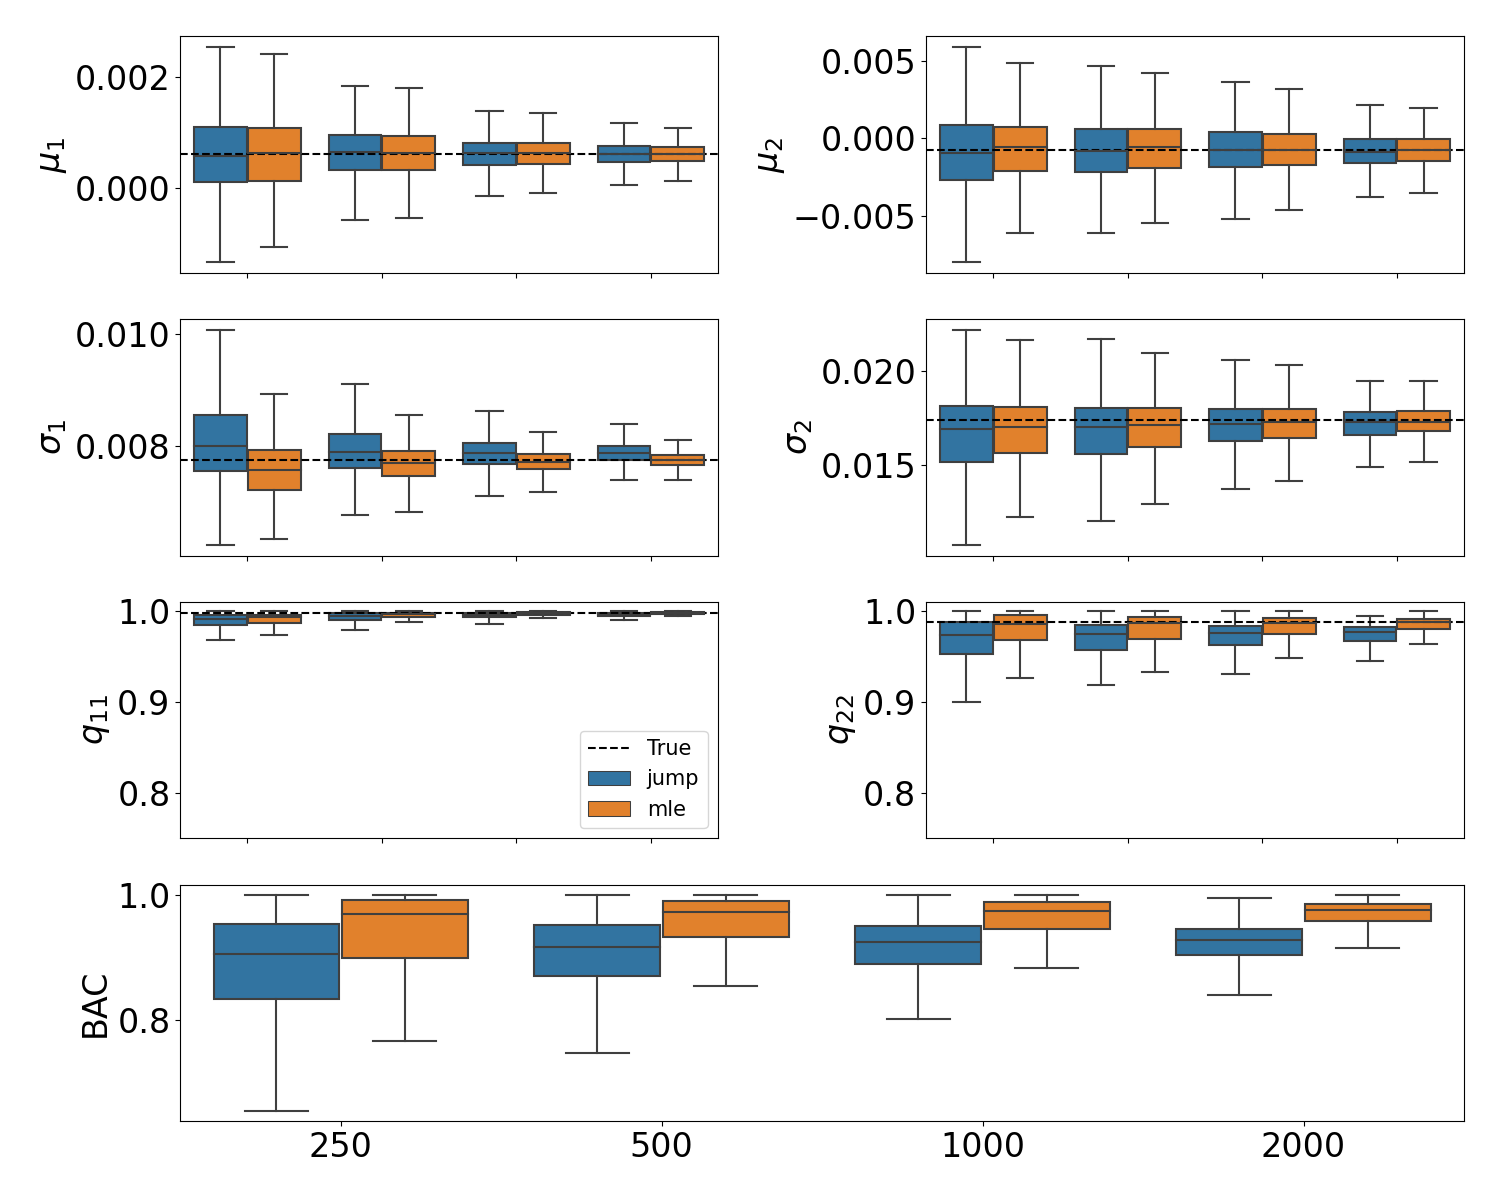
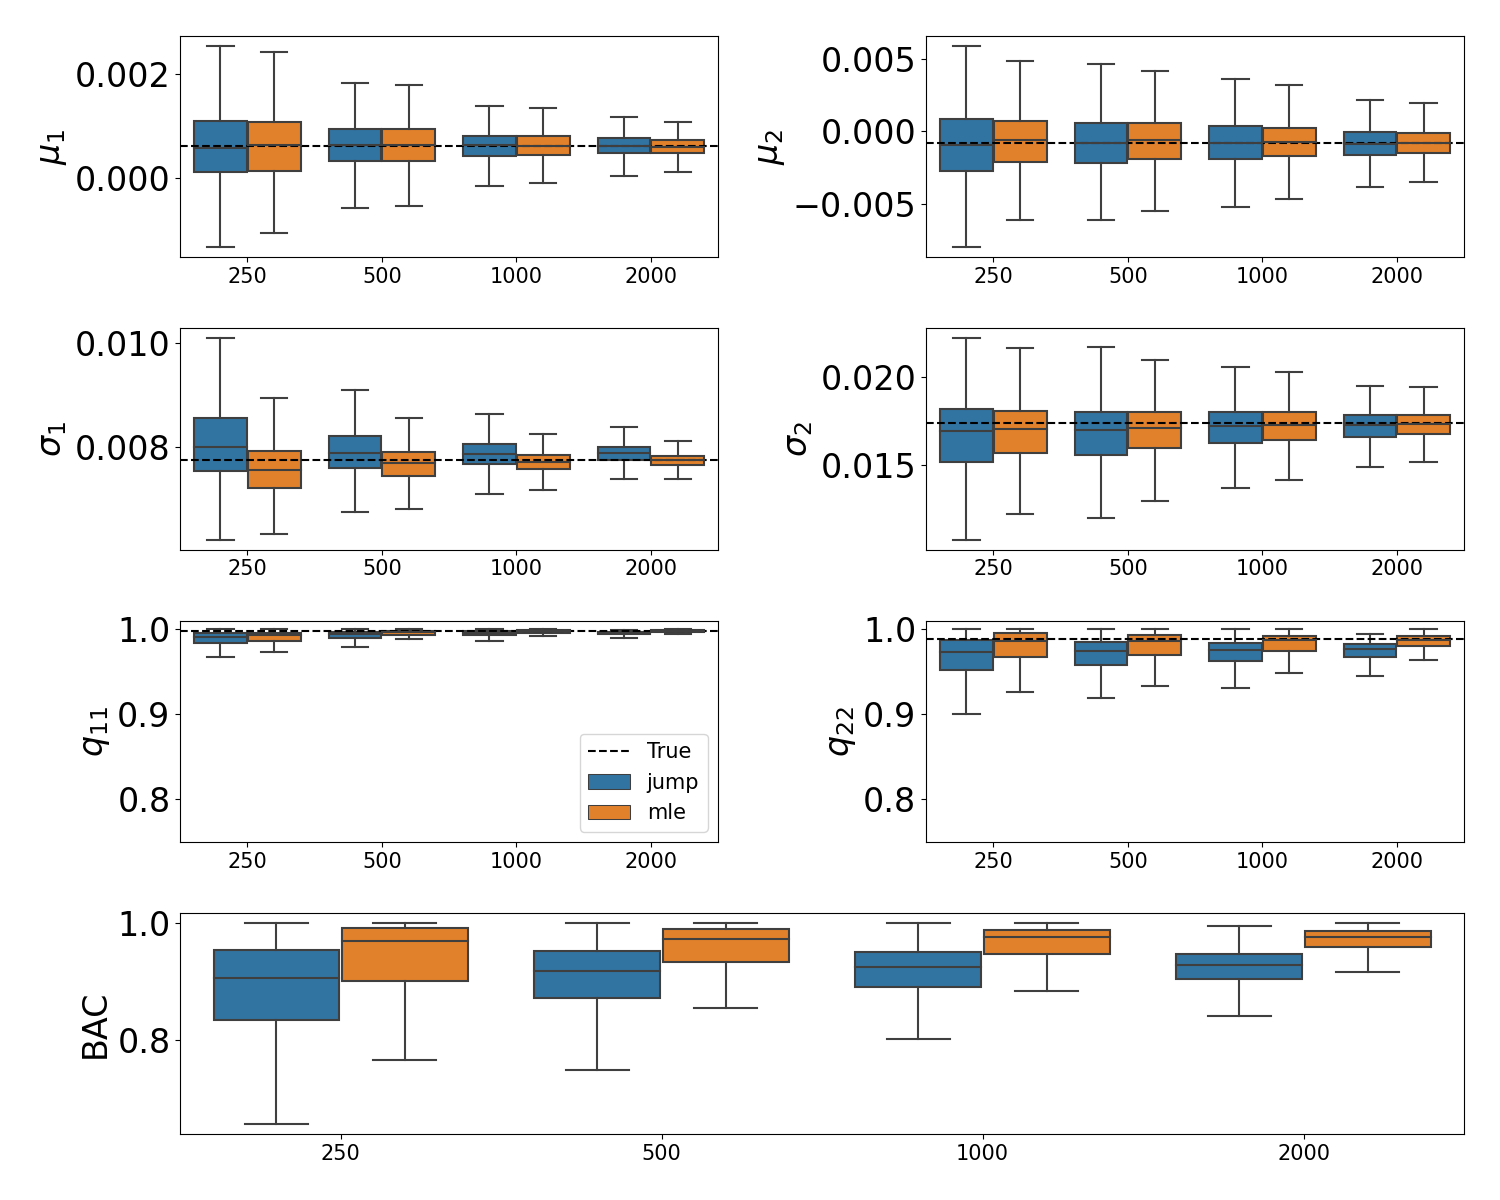
updated simulation plots again

diff --git a/analysis/model_convergence/simulation.py b/analysis/model_convergence/simulation.py
@@ -147,7 +147,7 @@ def plot_simulated_model_convergence(df, sampler, savefig=None):
 def plot_simulated_model_convergence_box(df, sampler, savefig=None):
     # Plotting
     plt.rcParams.update({'font.size': 24})
-    fig, axes = plt.subplots(4, 2, figsize=(15, 12), sharex=True)
+    fig, axes = plt.subplots(4, 2, figsize=(15, 12))
 
     ax4 = plt.subplot2grid((4, 2), (3, 0), rowspan=1, colspan=2)
 
@@ -178,13 +178,14 @@ def plot_simulated_model_convergence_box(df, sampler, savefig=None):
         axes[2, i].axhline(y=sampler.tpm[i, i], ls="--", color="black", label='True')
 
     # Remove seaborn legends and x-labels
-    for ax in axes.flatten():
+    for i, ax in enumerate(axes.flatten()):
         ax.legend([], [], frameon=False)
         ax.set_xlabel("")
+        ax.tick_params(axis='x', labelsize=15)
 
     ax4.legend([], [], frameon=False)
+    ax4.tick_params(axis='x', labelsize=15)
     ax4.set_xlabel("")
-
 
     axes[2, 0].legend(loc='lower right', fontsize=15)
 
@@ -197,7 +198,6 @@ def plot_simulated_model_convergence_box(df, sampler, savefig=None):
     if not savefig == None:
         plt.savefig('./images/' + savefig)
     plt.show()
-
 
 def plot_simulated_bac_box(df, sampler, savefig=None):
     # Plotting
